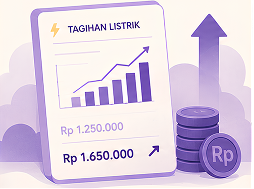
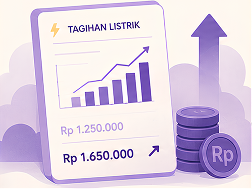
problem 3

diff --git a/app/components/landingPage/Fitur/Fitur.css b/app/components/landingPage/Fitur/Fitur.css
@@ -23,11 +23,7 @@
   text-align: left;
   line-height: 1.2;
 
-  background: linear-gradient(
-    90deg,
-    var(--pallet-cream),
-    var(--pallet-cream)
-  );
+  background: linear-gradient(90deg, var(--pallet-cream), var(--pallet-cream));
 
   background-clip: text;
   -webkit-background-clip: text;
@@ -41,7 +37,7 @@
 
   font-family: var(--font-poppins);
   font-size: var(--text-paragraf);
-  font-weight: 500;
+  font-weight: 400;
   line-height: 1.7;
 
   color: var(--pallet-cream);
@@ -60,7 +56,7 @@
   border-radius: 4px;
 }
 
-.fitur-card p{
+.fitur-card p {
   margin-top: 20px;
   max-width: 220px;
 

diff --git a/app/components/landingPage/Problem2/Problem2.css b/app/components/landingPage/Problem2/Problem2.css
@@ -7,7 +7,7 @@
   flex-direction: column;
 
   text-align: center;
-  padding: 120px 20px;
+  padding: 10vw 20px;
 }
 
 .problem2-section h2 {
@@ -16,7 +16,7 @@
   font-family: var(--font-averia);
   font-size: var(--text-header);
   font-weight: 400;
-  text-align: left;
+  text-align: center;
   line-height: 1.2;
 
   background: linear-gradient(
@@ -40,7 +40,7 @@
 
   font-family: var(--font-poppins);
   font-size: var(--text-paragraf);
-  font-weight: 500;
+  font-weight: 400;
   line-height: 1.7;
 
   color: var(--pallet-dark-blue);

diff --git a/app/components/landingPage/Problem/Problem.tsx b/app/components/landingPage/Problem/Problem.tsx
@@ -35,6 +35,7 @@ gsap.registerPlugin(ScrollTrigger);
 
 function Problem() {
   useEffect(() => {}, []);
+
   return (
     <div className="problem-section padding">
       <img className="awan-parallax" src="/problems-img/awan.png" />

diff --git a/app/components/landingPage/Problem/Problem.css b/app/components/landingPage/Problem/Problem.css
@@ -88,6 +88,7 @@
   font-family: var(--font-averia);
   font-size: var(--text-paragraf);
   color: var(--pallet-dark-blue);
+  font-weight: bolder;
 }
 
 .problem-con p {

diff --git a/app/components/landingPage/Problem3/Problem3.tsx b/app/components/landingPage/Problem3/Problem3.tsx
@@ -1,0 +1,7 @@
+import "./Problem.css";
+
+function Problem3() {
+  return <div></div>;
+}
+
+export default Problem3;
